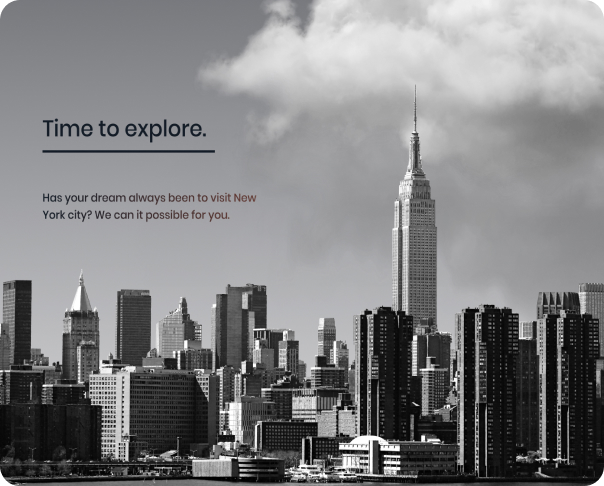
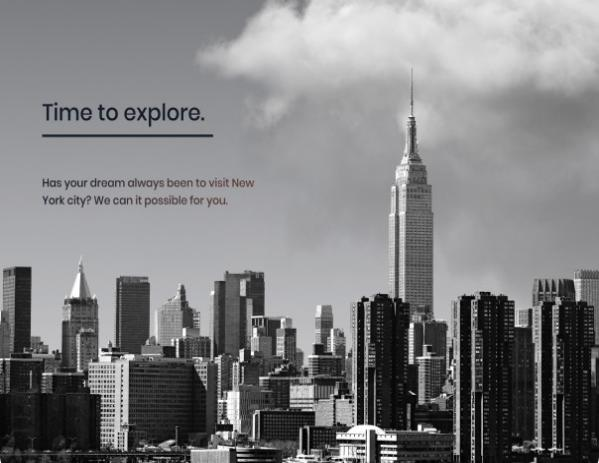
update img

diff --git a/index.html b/index.html
@@ -100,10 +100,10 @@
                 </div>
                 <div class="project">
                     <div class="project-text">
-                        <h2 class="project-name">Travelly Project</h2>
+                        <h2 class="project-name">Elena Joy</h2>
                         <h4 class="project-technologies">HTML/CSS/JS</h4>
                     </div>
-                    <img class="project-img" src="./images/travelly.jpg" alt="travelly project">
+                    <img class="project-img" src="./images/elena-joy.jpg" alt="travelly project">
                     <a href="#" class="project-link">Go to Project</a>
                 </div>
                 <div class="project">

diff --git a/styles/style.css b/styles/style.css
@@ -299,8 +299,8 @@ html {
 
 .project-img {
 	width: 40rem;
-	object-fit: cover;
 	transition: opacity 0.3s;
+	align-self: center;
 }
 
 .project:hover .project-img {
